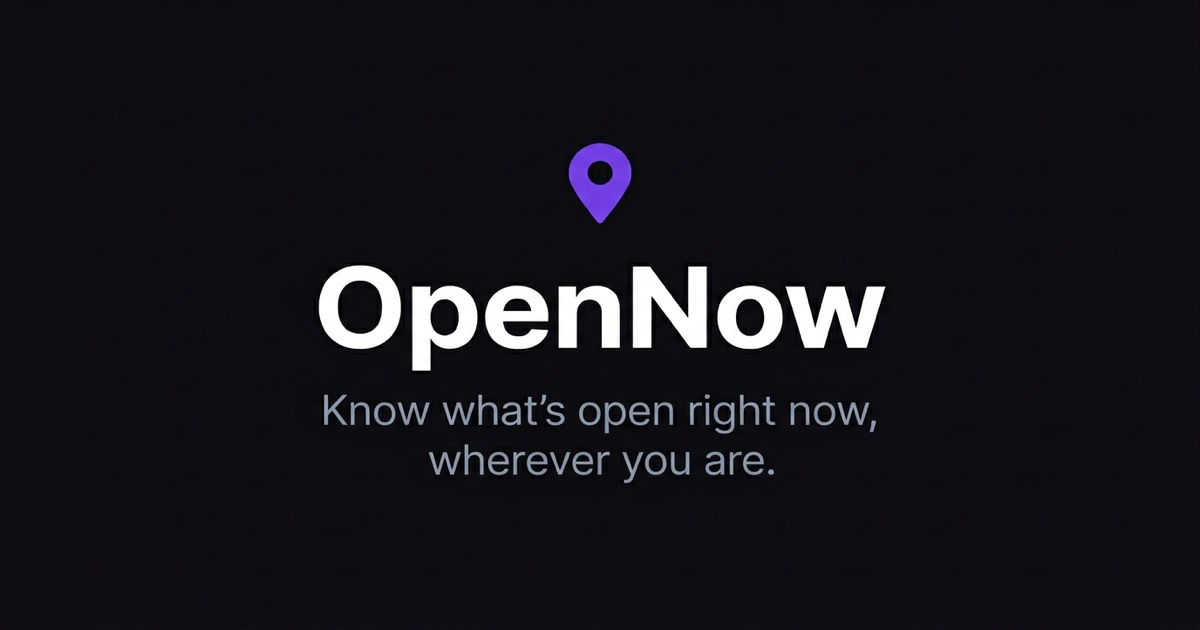
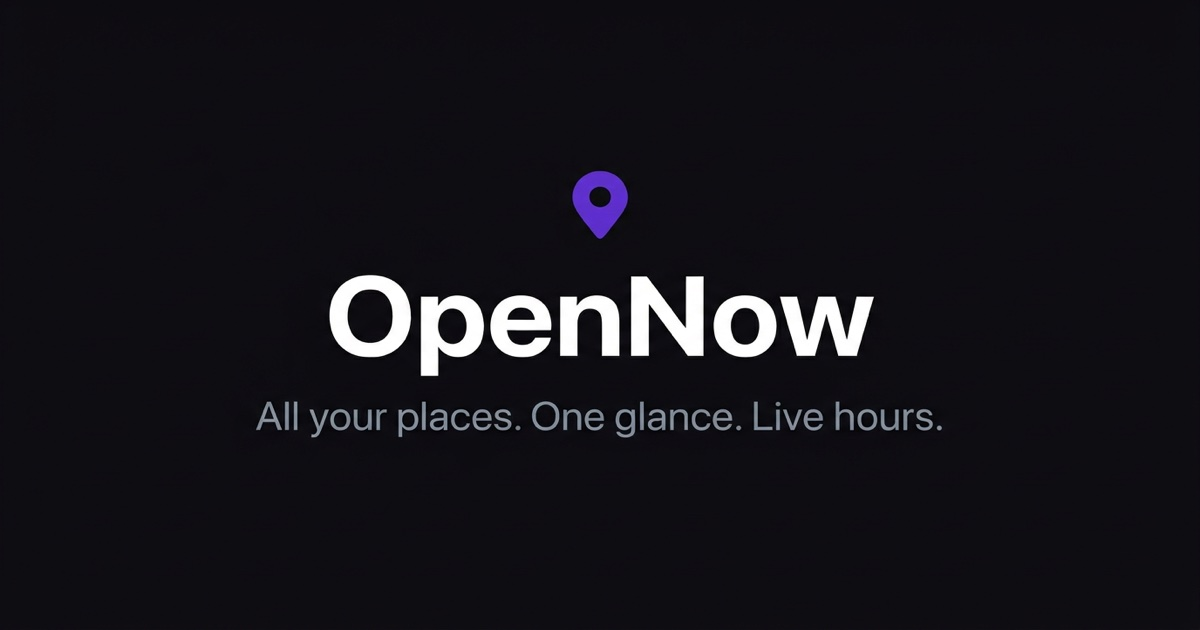
updated tagline and messaging

Changed region(s): [[0.2467, 0.4222, 0.74, 0.6032], [0.2158, 0.6333, 0.8017, 0.754], [0.4625, 0.2111, 0.5242, 0.3921]]

diff --git a/app/layout.tsx b/app/layout.tsx
@@ -14,9 +14,9 @@ const geistMono = Geist_Mono({
 });
 
 const APP_NAME = 'OpenNow';
-const OG_TITLE = "OpenNow \u2014 Know what's open right now";
+const OG_TITLE = 'OpenNow \u2014 All your places. One glance. Live hours.';
 const OG_DESCRIPTION =
-  "A pocket-sized shortlist for food travelers. Add the places you want to try, see live hours at a glance, and never show up to a closed door again.";
+  "A pocket-sized shortlist for food travelers. Save the spots you want to try, see live hours at a glance, and never show up to a closed door again.";
 const OG_IMAGE = '/og-image.jpg';
 
 export const metadata: Metadata = {

diff --git a/app/page.tsx b/app/page.tsx
@@ -56,8 +56,7 @@ export default function LandingPage() {
           className="text-center text-[15px] leading-relaxed max-w-[300px] mb-10"
           style={{ color: 'var(--text-secondary)' }}
         >
-          Your shortlist of places to try&mdash;with
-          live hours so you always know what&apos;s open.
+          All your places. One glance. Live hours.
         </p>
 
         <div className="w-full max-w-[300px] flex flex-col gap-3 mb-10">
